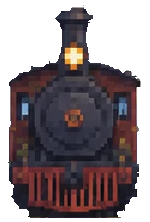
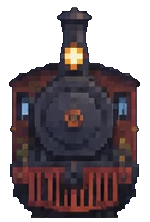
Contorno limpio de la locomotora y nubes que pasan por detrás de los pinos

diff --git a/index.html b/index.html
@@ -119,7 +119,7 @@ const cv = document.getElementById('cv'), ctx = cv.getContext('2d');
 const stage = document.getElementById('stage'), sub = document.getElementById('sub');
 const gate = document.getElementById('gate');
 const img = n => new Promise(r => { const i = new Image(); i.onload = () => r(i); i.src = n; });
-let cielo, nubes, tren, humo, W = 768, H = 512, S = 1, ox = 0, oy = 0;
+let cielo, nubes, primer, tren, humo, W = 768, H = 512, S = 1, ox = 0, oy = 0;
 
 // ---------- parámetros de la cinemática ----------
 const T_GO = 0, T_RISE = 0, T_ARRIVE = 14.0, T_CRACK = 0.9, T_FALL = 1.9;    // segundos
@@ -156,6 +156,7 @@ function drawSky(ms) {
     else ctx.drawImage(nubes, x, 0, WW, WH);
     ctx.restore();
   }
+  ctx.drawImage(primer, 0, 0, WW, WH);                                   // copas de los pinos: por delante de las nubes
 }
 
 // ---------- sonido procedural ----------
@@ -376,8 +377,8 @@ document.getElementById('mute').addEventListener('click', e => {
 });
 document.getElementById('again').addEventListener('click', () => { window.scrollTo(0, 0); replay(); });
 
-Promise.all([img('cielo.png'), img('nubes.png'), img('tren.png'), img('humo.png')]).then(([a, n, b, c]) => {
-  cielo = a; nubes = n; tren = b; humo = c; idleLoop();
+Promise.all([img('cielo.png'), img('nubes.png'), img('primer-plano.png'), img('tren.png'), img('humo.png')]).then(([a, n, pp, b, c]) => {
+  cielo = a; nubes = n; primer = pp; tren = b; humo = c; idleLoop();
   if (matchMedia('(prefers-reduced-motion: reduce)').matches) { phase = 'off'; stage.classList.add('done'); }
   
   window.__ono = {trainAt, get parts() { return parts; }, start, finish, get phase() { return phase; }, jump(sec) { t0 = performance.now() - sec * 1000; }};

diff --git a/src/build_assets.py b/src/build_assets.py
@@ -39,6 +39,8 @@ for y in range(0, 560):
 cloud[300:549, 560:776] = False
 cm = Image.fromarray((cloud * 255).astype('uint8')).filter(ImageFilter.MaxFilter(7))
 cloud = np.array(cm) > 0
+prot = np.zeros((H, W), bool); prot[:575, :330] = (a[:575, :330].sum(2) < 400)          # los pinos de la ladera no se tocan
+cloud &= ~prot
 # quita restos sueltos (trozos de nube de menos de 220 px)
 seen = np.zeros((H, W), bool)
 for y0 in range(H):
@@ -58,6 +60,18 @@ for y in range(0, 560):
     sky[y][cloud[y]] = skymap[y][cloud[y]]
 layer = np.zeros((H, W, 4), np.uint8)
 layer[:, :, :3] = clean; layer[:, :, 3] = cloud * 255
+# la nube pasa por detrás de los pinos: rellena el hueco con forma de árbol que dejan en la capa de nubes
+closed = np.array(Image.fromarray((cloud * 255).astype('uint8')).filter(ImageFilter.MaxFilter(31)).filter(ImageFilter.MinFilter(31))) > 0
+protd = np.array(Image.fromarray((prot * 255).astype('uint8')).filter(ImageFilter.MaxFilter(15))) > 0
+fill = protd & closed & ~cloud
+def boxsum(m, r):
+    c = np.pad(m, ((r + 1, r), (r + 1, r))).cumsum(0).cumsum(1)
+    return c[2 * r + 1:, 2 * r + 1:] - c[:-2 * r - 1, 2 * r + 1:] - c[2 * r + 1:, :-2 * r - 1] + c[:-2 * r - 1, :-2 * r - 1]
+cw = boxsum(cloud.astype(float), 14)
+for c in range(3):
+    mean = boxsum(clean[:, :, c] * cloud, 14) / np.maximum(cw, 1)
+    layer[:, :, c] = np.where(fill, mean, layer[:, :, c])
+layer[:, :, 3] = (cloud | fill) * 255
 # 3) locomotora: polígono en coords de la referencia
 poly = [(603,543),(644,543),(644,560),(639,560),(639,600),(662,602),(682,612),(692,620),(692,742),(684,750),(674,757),
         (580,757),(566,750),(557,742),(557,620),(566,612),(578,604),(606,600),(606,560),(603,560)]
@@ -77,6 +91,13 @@ def save(arr, name, mode, half=False):
     im.save(f"{out_dir}{name}")
 save(sky, "cielo.png", "RGB"); save(clean, "bg.png", "RGB", half=True)             # cielo a resolución completa; bg (fondo de la bio) a la mitad
 save(layer, "nubes.png", "RGBA")
+# primer plano: las copas de los pinos de la ladera izquierda van por delante de las nubes
+fg = np.zeros((H, W, 4), np.uint8)
+dark = (a.sum(2) < 400)
+fgm = np.zeros((H, W), bool); fgm[:575, :330] = dark[:575, :330]
+fgm[575:] = False
+fg[:, :, :3] = a; fg[:, :, 3] = fgm * 255
+save(fg, "primer-plano.png", "RGBA")
 # locomotora a resolución completa, sin el azul del cielo en el borde
 box = (550, 540, 700, 762)
 rgb = np.array(ref.crop(box)).astype(int); pm = np.array(mask.crop(box)) > 0
@@ -99,6 +120,20 @@ for _ in range(2):                                                              
             if alpha[y, x] and not (alpha[y - 1, x] and alpha[y + 1, x] and alpha[y, x - 1] and alpha[y, x + 1]) and rgb[y, x][2] - rgb[y, x][0] > 12:
                 nxt[y, x] = False
     alpha = nxt
+# silueta limpia: simétrica (la locomotora lo es), sin motas, con borde de un píxel oscuro
+ys_, xs_ = np.where(alpha); cxm = (xs_.min() + xs_.max()) / 2
+mir = np.zeros_like(alpha)
+for x in range(w):
+    xm = int(round(2 * cxm - x))
+    if 0 <= xm < w: mir[:, x] = alpha[:, xm]
+alpha = alpha & mir
+def morph(m, f): return np.array(Image.fromarray((m * 255).astype('uint8')).filter(f)) > 127
+alpha = morph(morph(alpha, ImageFilter.MinFilter(3)), ImageFilter.MaxFilter(3))               # abre: quita motas
+alpha = morph(morph(alpha, ImageFilter.MaxFilter(3)), ImageFilter.MinFilter(3))               # cierra: rellena mellas
+inner = morph(alpha, ImageFilter.MinFilter(3))
+ring = alpha & ~inner
+rgb2 = rgb.astype(float); rgb2[ring] = rgb2[ring] * .45 + np.array([18, 22, 40]) * .55         # contorno oscuro de pixel art
+rgb = rgb2.astype(int)
 spr = np.zeros((h, w, 4), np.uint8); spr[:, :, :3] = rgb; spr[:, :, 3] = alpha * 255
 Image.fromarray(spr).save(f"{out_dir}tren.png")
 print("tren", (w, h), "ancla (centro-base, unidades de mundo) =", ((624 - 550) / 2, (757 - 540) / 2))
